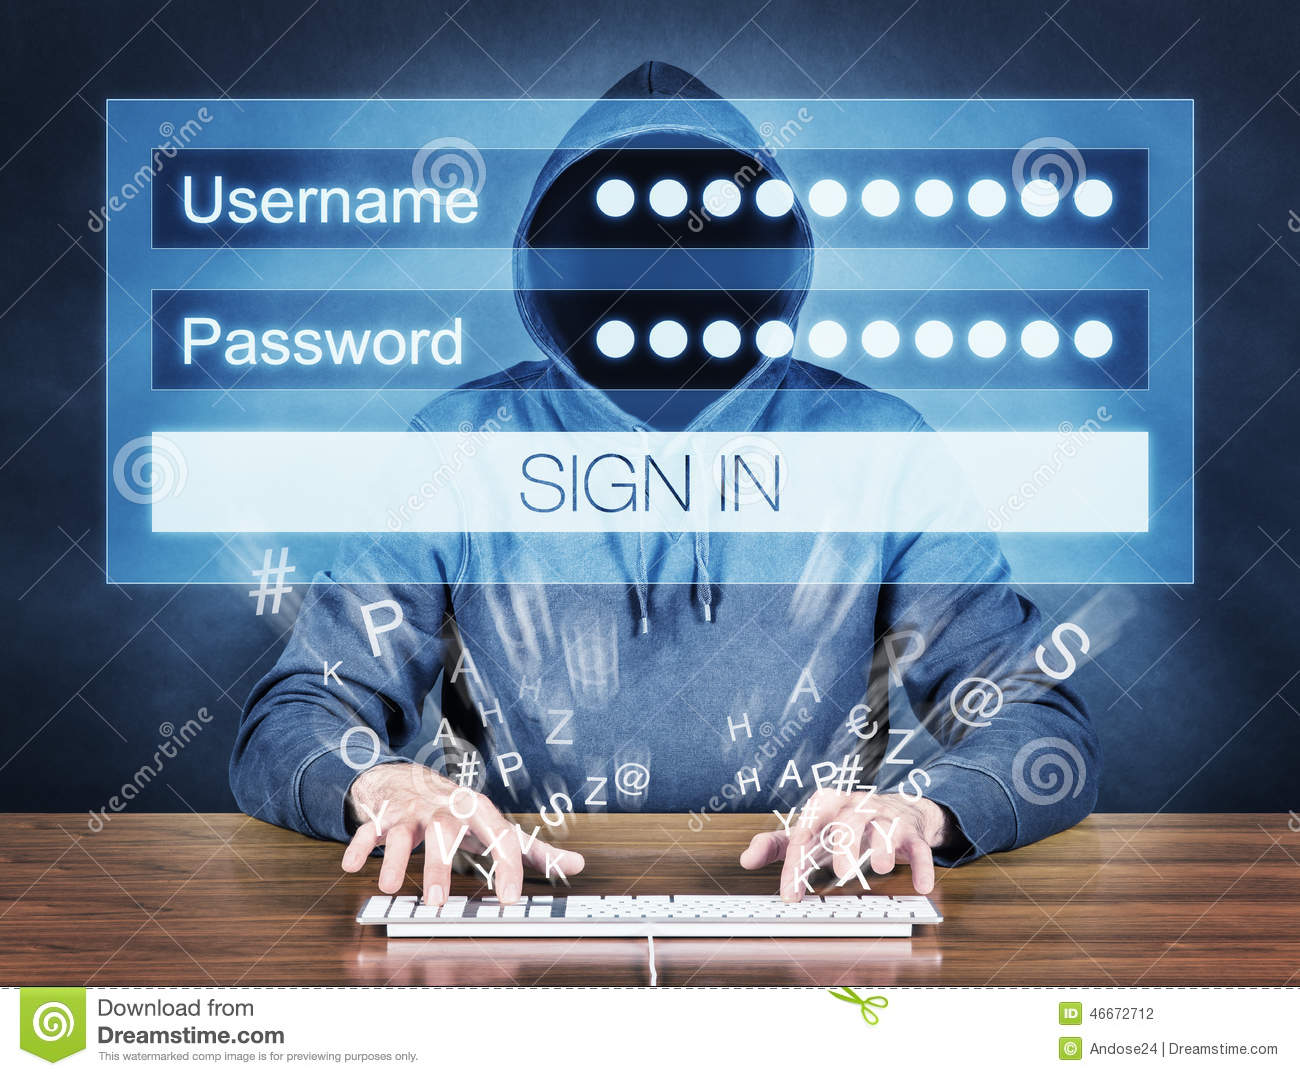
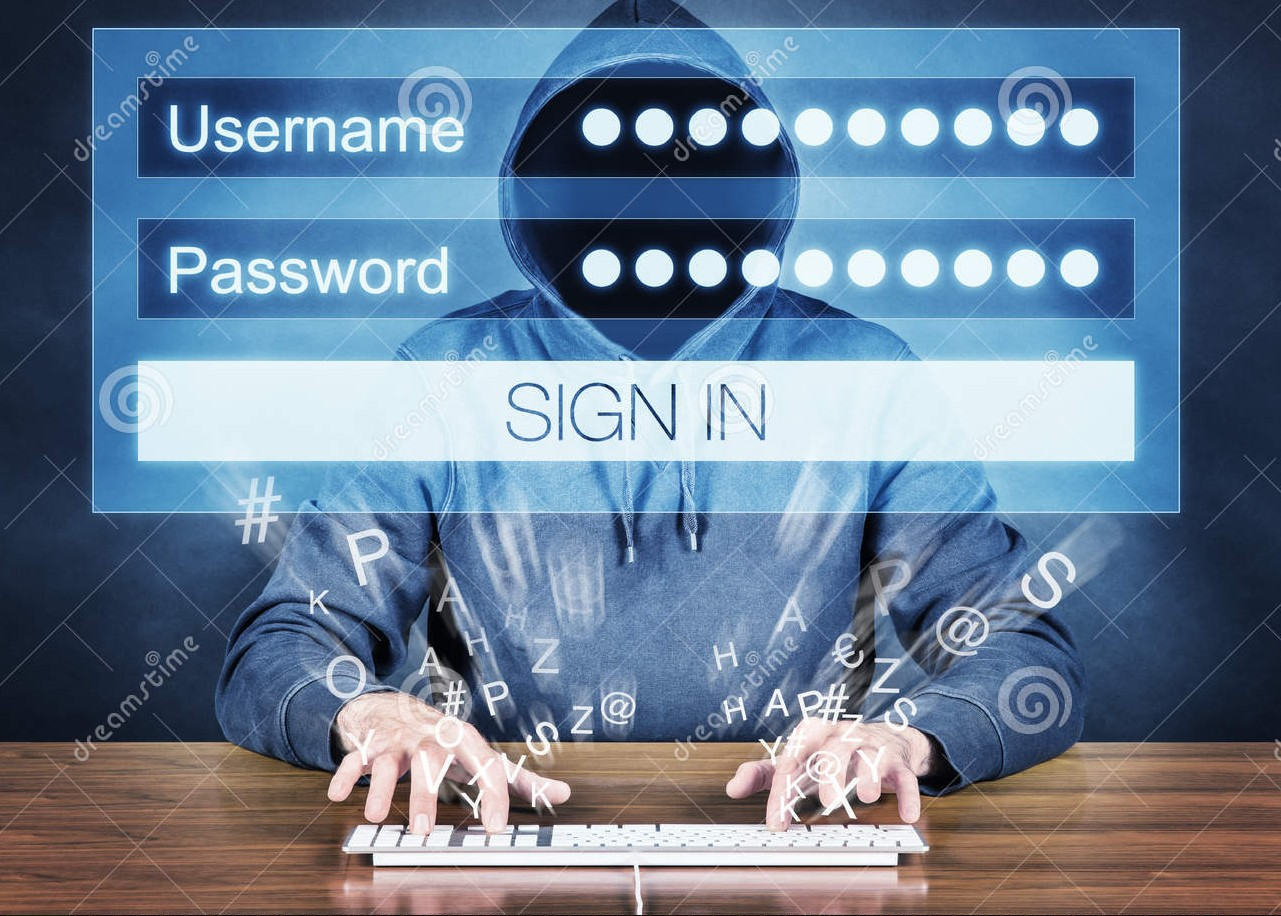
Fixing typing-scroll bug. Cropped Phishing app's image. Resize other images in projects section

diff --git a/index.html b/index.html
@@ -210,10 +210,11 @@
           <div class="content section-padding valign" style="margin-left: 10%; margin-top: 50px;">
             <div class="caption">
               <h2>Hi, I'm <span class="teal">Syed Zami-Ul-Haque Navid</span></h2>
-              <h5 id="typing_header" style="color:#fff">
+              <h5>
+                <span id="typing_article" class="typing" style="font-weight: 300; color:#fff"></span>
                 <span id="typing_span" class="typing" style="font-weight: 300; color:#004d40"></span>
               </h5>
-              <!-- <h5 style="color:#00796b">A <span class="typing" style="font-weight: 300; color:#fff"></span></h5> -->
+
               <h5>An aspiring engineer passionate about solving real-world problems</h5>
             </div>
             <div class="social">
@@ -337,7 +338,7 @@
           <div class="col s14 m8 l6">
             <div class="card medium">
               <div class="card-image waves-effect waves-block waves-light">
-                <img alt="music streaming app" src="/assets/img/malicious_code.jpg" style="height: 100%; width: 100%" class="activator" />
+                <img alt="Malicious Code Detection" src="/assets/img/malicious_code.jpg" style="height: 100%; width: 100%" class="activator" />
               </div>
               <div class="card-content">
                 <span class="card-title activator teal-text hoverline">Static Detection of Malicious Code in Programs Using Semantic Techniques<i
@@ -377,7 +378,7 @@
           <div class="col s14 m8 l6">
             <div class="card medium">
               <div class="card-image waves-effect waves-block waves-light">
-                <img alt="music streaming app" src="/assets/img/fake_news.jpg" style="height: 100%; width: 100%" class="activator" />
+                <img alt="Fake News Detection" src="/assets/img/fake_news.jpg" style="height: 100%; width: 100%" class="activator" />
               </div>
               <div class="card-content">
                 <span class="card-title activator teal-text hoverline">Are You Misinformed?<i
@@ -408,7 +409,7 @@
           <div class="col s14 m8 l6">
             <div class="card medium">
               <div class="card-image waves-effect waves-block waves-light">
-                <img alt="music streaming app" src="/assets/img/violence_detection.jpeg" style="height: 90%; width: 90%" class="activator" />
+                <img alt="Violence Detection" src="/assets/img/violence_detection.jpeg" style="height: 90%; width: 90%" class="activator" />
               </div>
               <div class="card-content">
                 <span class="card-title activator teal-text hoverline">Violence Detection from Surveillance Videos<i
@@ -438,7 +439,7 @@
           <div class="col s14 m8 l6">
             <div class="card medium">
               <div class="card-image waves-effect waves-block waves-light">
-                <img alt="music streaming app" src="/assets/img/Warning_classification.png" style="height: 90%; width: 90%" class="activator" />
+                <img alt="Warning Classification" src="/assets/img/Warning_classification.png" style="height: 90%; width: 90%" class="activator" />
               </div>
               <div class="card-content">
                 <span class="card-title activator teal-text hoverline">Warning Classification Raised by Static Analysis Tools<i
@@ -468,7 +469,7 @@
           <div class="col s14 m8 l6">
             <div class="card medium">
               <div class="card-image waves-effect waves-block waves-light">
-                <img alt="music streaming app" src="/assets/img/style_transfer.png" style="height: 100%; width: 100%" class="activator" />
+                <img alt="Neural Style Transfer" src="/assets/img/style_transfer.png" style="height: 100%; width: 100%" class="activator" />
               </div>
               <div class="card-content">
                 <span class="card-title activator teal-text hoverline">Neural Style Transfer for Audio<i
@@ -514,7 +515,7 @@
           <div class="col s14 m8 l6">
             <div class="card medium">
               <div class="card-image waves-effect waves-block waves-light">
-                <img alt="music streaming app" src="/assets/img/language_learning.jpg" style="height: 100%; width: 100%" class="activator" />
+                <img alt="Vasha Sikkha" src="/assets/img/language_learning.jpg" style="height: 100%; width: 100%" class="activator" />
               </div>
               <div class="card-content">
                 <span class="card-title activator teal-text hoverline">Vasha Sikkha<i
@@ -550,7 +551,7 @@
           <div class="col s14 m8 l6">
             <div class="card medium">
               <div class="card-image waves-effect waves-block waves-light">
-                <img alt="music streaming app" src="/assets/img/covid_management.png" style="height: 100%; width: 100%" class="activator" />
+                <img alt="Covid Management" src="/assets/img/covid_management.png" style="height: 100%; width: 100%" class="activator" />
               </div>
               <div class="card-content">
                 <span class="card-title activator teal-text hoverline">Covid Management<i
@@ -586,7 +587,7 @@
           <div class="col s14 m8 l6">
             <div class="card medium">
               <div class="card-image waves-effect waves-block waves-light">
-                <img alt="music streaming app" src="/assets/img/tour_planner.jpg" style="height: 90%; width: 90%" class="activator" />
+                <img alt="Tour Planner" src="/assets/img/tour_planner.jpg" style="height: 100%; width: 100%" class="activator" />
               </div>
               <div class="card-content">
                 <span class="card-title activator teal-text hoverline">Tour Planner<i
@@ -622,7 +623,7 @@
           <div class="col s14 m8 l6">
             <div class="card medium">
               <div class="card-image waves-effect waves-block waves-light">
-                <img alt="music streaming app" src="/assets/img/session_hijack.png" style="height: 90%; width: 90%" class="activator" />
+                <img alt="TCP Session Hijacking" src="/assets/img/session_hijack.png" style="height: 100%; width: 100%" class="activator" />
               </div>
               <div class="card-content">
                 <span class="card-title activator teal-text hoverline">TCP Session Hijacking<i
@@ -654,7 +655,7 @@
           <div class="col s14 m8 l6">
             <div class="card medium">
               <div class="card-image waves-effect waves-block waves-light">
-                <img alt="music streaming app" src="/assets/img/phishing.jpg" style="height: 100%; width: 100%" class="activator" />
+                <img alt="Naive Phishing" src="/assets/img/phishing.jpg" style="height: 100%; width: 100%" class="activator" />
               </div>
               <div class="card-content">
                 <span class="card-title activator teal-text hoverline">Phishing App<i
@@ -689,7 +690,7 @@
           <div class="col s14 m8 l6">
             <div class="card medium">
               <div class="card-image waves-effect waves-block waves-light">
-                <img alt="music streaming app" src="/assets/img/snake_game.png" style="height: 100%; width: 100%" class="activator" />
+                <img alt="Snake Game" src="/assets/img/snake_game.png" style="height: 100%; width: 100%" class="activator" />
               </div>
               <div class="card-content">
                 <span class="card-title activator teal-text hoverline">Gesture Based Snake Game<i
@@ -967,14 +968,14 @@
   <script src="assets/vendor/typed.js/typed.min.js"></script>
   <script type="text/javascript">
     var scrollArray = ["Software Engineer", "AI enthusiast", "Aspiring Researcher"]
-    var typed = new Typed('.typing',{
+    var typed = new Typed('#typing_span',{
       strings: scrollArray,
       loop: true,
       typeSpeed: 80,
       backSpeed: 40,
-      preStringTyped: (arrayPos, self) => {
-        changeTypingArticle(scrollArray, arrayPos);
-      }
+      // preStringTyped: (arrayPos, self) => {
+      //   changeTypingArticle(scrollArray, arrayPos);
+      // }
     });
   </script>
 
@@ -982,9 +983,9 @@
     function changeTypingArticle(scrollArray, arrayPos){
       var vowels = ["a","e","i","o","u"];
       if(vowels.includes(scrollArray[arrayPos].charAt(0).toLowerCase()))
-        $("#typing_header").text("An ");
+        $("#typing_article").text("An ");
       else
-      $("#typing_header").text("A ");
+      $("#typing_article").text("A ");
     }
   </script>
 
